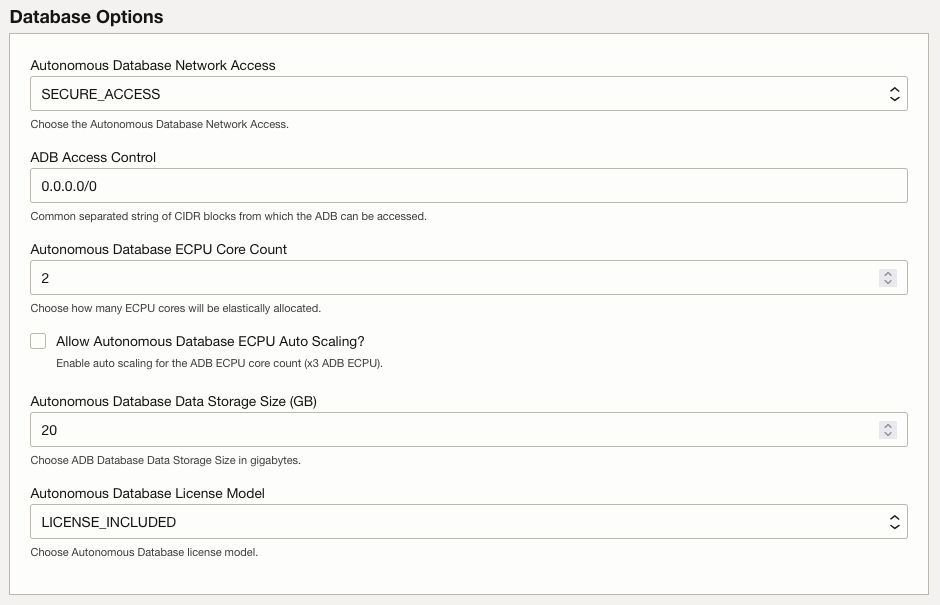
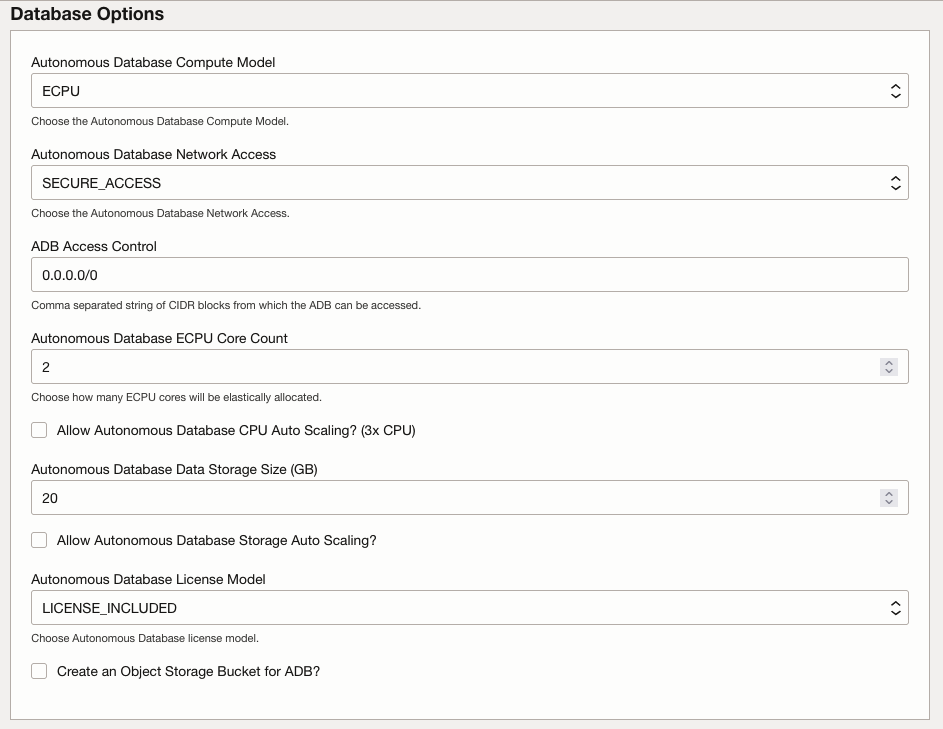
Setup Updates

Changed region(s): [[0.0, 0.0, 0.9872, 0.9521], [0.0, 0.9818, 0.9872, 1.0]]

diff --git a/docs-source/spring/content/setup/_index.md b/docs-source/spring/content/setup/_index.md
@@ -36,6 +36,12 @@ resources:
   - name: oci-stack-apply-logs
     src: "oci-stack-apply-logs.png"
     title: "Create Stack Apply Logs"
+  - name: oci-stack-additional-options
+    src: "oci-stack-additional-options.png"
+    title: "Create Stack Addtional Options - Standard Edition"
+  - name: oci-stack-oke-options
+    src: "oci-stack-oke-options.png"
+    title: "Create Stack OKE Options"
   - name: oci-stack-outputs
     src: "oci-stack-outputs.png"
     title: "Create Stack Outputs"
@@ -60,24 +66,22 @@ resources:
   - name: oci-stack-passwords
     src: "oci-stack-passwords.png"
     title: "Administrator Passwords"
-  - name: oci-stack-control-plane
-    src: "oci-stack-control-plane.png"
-    title: "OKE Control Plane Access"
-  - name: oci-stack-node-pool
-    src: "oci-stack-node-pool.png"
-    title: "Node Pool Information"
   - name: oci-stack-lb-options
     src: "oci-stack-lb-options.png"
     title: "Load Balancer Options"
   - name: oci-stack-vault-options
     src: "oci-stack-vault-options.png"
-    title: "HashiCorp Vault Options"
+    title: "HashiCorp Vault Options - Standard Edition"
   - name: azn-stack-app-info
     src: "azn-stack-app-info.png"
     title: "Access Information"
   - name: oci-stack-app-info
     src: "oci-stack-app-information.png"
     title: "Detailed Access Information"
+  - name: oci-stack-network-options
+    src: "oci-stack-network-options.png"
+    title: "Network Options - Standard Edition"
+
 ---
 
 Oracle Backend for Spring Boot and Microservices is available in the [OCI Marketplace](https://cloudmarketplace.oracle.com/marketplace/en_US/listing/138899911).
@@ -171,9 +175,26 @@ To set up the OCI environment, process these steps:
         - *COMMUNTIY* - for developers for quick start to testing Spring Boot Microservices with an integrated backend. Teams can start with the deployment and scale up as processing demand grows. Community support only.
         - *STANDARD* - focused for pre-prod and production environments with an emphasis on deployment, scaling, and high availability. Oracle support is included with a Oracle Database support agreement. All features for developers are the same so start here if you’re porting an existing Spring Boot application stack and expect to get into production soon.
 
+        | Edition   | Parse Platform | BYO VCN      | BYO Database     | Production Vault | Registry Scanning |
+        |-----------|----------------|--------------|------------------|------------------| ------------------|
+        | Community | ✓              |              |                  |                  |                   |
+        | Standard  | ✓              | ✓            | ✓                | ✓                | ✓                 |
+
       <!-- spellchecker-disable -->
       {{< img name="oci-stack-app-name" size="large" lazy=false >}}
       <!-- spellchecker-enable -->
+
+1. If you check the checkbox *Enable Parse Platform* in the **Parse Server** section a Parse Server will be installed. Fill in the following for the Parse Server:
+
+   - `Application ID` (optional) : Leave blank to auto-generate.
+   - `Server Master Key` (optional) : Leave blank to auto-generate.
+   - `Dashboard Username` : The user name of the user to whom access to the dashboard is granted.
+   - `Dashboard Password` (optional) : The password of the dashboard user (a minimum of 12 characters). Leave blank to auto-generate.
+   - `Enable Parse S3 Storage` : Check the checkbox to enable Parse Server S3 Adaptor and create a S3 compatible Object Storage Bucket.
+
+     <!-- spellchecker-disable -->
+     {{< img name="oci-stack-parse-options" size="large" lazy=false >}}
+     <!-- spellchecker-enable -->
 
 1. If you check the checkbox *Set Administrator Passwords* in the **Administrator Passwords** section you have the option to fill in the following passwords (if not they are autogenerated):
 
@@ -186,38 +207,34 @@ To set up the OCI environment, process these steps:
       {{< img name="oci-stack-passwords" size="large" lazy=false >}}
       <!-- spellchecker-enable -->
 
-1. If you check the checkbox *Enable Parse Platform* in the **Parse Server** section a Parse Server will be installed. Fill in the following for the Parse Server:
+1. (*Standard Edition Only*) If you check the checkbox *Bring Your Own Virtual Cloud Network* in the **Network Options** section you can use an existing Virtual Cloud Network.  This is required to Bring Your Own Database (*Standard Edition Only*).
 
-   - `Application ID` (optional) : Leave blank to auto-generate.
-   - `Server Master Key` (optional) : Leave blank to auto-generate.
-   - `Enable Parse S3 Storage` : Check the checkbox to enable Parse Server S3 Adaptor and create a S3 compatible Object Storage Bucket.
-   - `Dashboard Username` : The user name of the user to whom access to the dashboard is granted.
-   - `Dashboard Password` (optional) : The password of the dashboard user (a minimum of 12 characters). Leave blank to auto-generate.
+    > **NOTE:** For more information on the network requirements and topology of the Oracle Backend for Spring Boot and Microservices, please review the [Network](./infrastructure/network) documentation.
 
-     <!-- spellchecker-disable -->
-     {{< img name="oci-stack-parse-options" size="large" lazy=false >}}
-     <!-- spellchecker-enable -->
+   - `Virtual Cloud Network Compartment` : The compartment of the existing VCN.
+   - `Virtual Cloud Network (VCN)` : The VCN name.
+   - `Private Subnet Compartment` : The compartment of the existing Private Subnet in the VCN.
+   - `Private Subnet` : The Private Subnet name.
+   - `Public Subnet Compartment` : The compartment of the existing Public Subnet in the VCN.
+   - `Public Subnet` : The Public Subnet name.
 
-1. If you check the checkbox *Public Control Plane* in the **Public Control Plane Options**, you are enabling access from the `public` to the Control Plane:
-  
-   - `Public Control Plane` : This option allows access to the OKE Control Plane from the internet (public IP). If not selected, access can only be from a private virtual cloud network (VCN).
-   - `Control Plane Access Control` : Enter the CIDR block you want to give access to the Control Plane. Default (and not recommended) is `0.0.0.0/0`.
+      <!-- spellchecker-disable -->
+      {{< img name="oci-stack-network-options" size="large" lazy=false >}}
+      <!-- spellchecker-enable -->
 
-   > **NOTE:** Oracle recommends that you set `Control Plane Access Control` to be as restrictive as possible
+1. In the **Kubernetes Cluster Options** section, fill in the following for the OKE Cluster Options:
 
-     <!-- spellchecker-disable -->
-     {{< img name="oci-stack-control-plane" size="large" lazy=false >}}
-     <!-- spellchecker-enable -->
-
-1. In the **Node Pool** section, fill in the following for the OKE Node Pools:
-
+   - `Public API Endpoint?` : This option allows access to the OKE Control Plane API Endpoint from the internet (public IP). If not selected, access can only be from a private virtual cloud network (VCN).
+   - `API Endpoint Access Control` : Enter the CIDR block you want to give access to the Control Plane API. Default (and not recommended) is `0.0.0.0/0`.
    - `Node Pool Workers` : The number of Kubernetes worker nodes (virtual machines) attached to the OKE cluster.
    - `Node Pool Worker Shape` : The shape of the node pool workers.
    - `Node Workers OCPU` : The initial number of Oracle Compute Units (OCPUs) for the node pool workers.
 
-      <!-- spellchecker-disable -->
-      {{< img name="oci-stack-node-pool" size="large" lazy=false >}}
-      <!-- spellchecker-enable -->
+   > **NOTE:** Oracle recommends that you set `API Endpoint Access Control` to be as restrictive as possible
+
+     <!-- spellchecker-disable -->
+     {{< img name="oci-stack-oke-options" size="large" lazy=false >}}
+     <!-- spellchecker-enable -->
 
 1. In the **Load Balancers Options** section, fill in the following for the Load Balancers options:
 
@@ -234,7 +251,27 @@ To set up the OCI environment, process these steps:
       {{< img name="oci-stack-lb-options" size="large" lazy=false >}}
       <!-- spellchecker-enable -->
 
-1. If you check the checkbox *Enable Vault in Production Mode* in the section **Vault Options** you will be installing HashiCorp in **Production** mode otherwise the HashiCorp Vault be installed in **Development** mode.
+1. In the **Database Options** section, you can modify the following Database options.
+
+   - `Autonomous Database Compute Model` : Choose either ECPU (default) or OCPU compute model for the ADB.
+   - `Autonomous Database Network Access` : Choose the Autonomous Database network access. Choose between *SECURE_ACCESS* and *PRIVATE_ENDPOINT_ACCESS*. **NOTE:** This option currently cannot be changed later.
+      - *SECURE_ACCESS* - Accessible from outside the Kubernetes Cluster.  Requires mTLS and can be restricted by IP or CIDR addresses.
+      - *PRIVATE_ENDPOINT_ACCESS* - Accessible only from inside the Kubernetes Cluster or via a Bastion service.  Requires mTLS.
+   - `ADB Access Control` : Comma separated list of CIDR blocks from which the ADB can be accessed. This only applies if *SECURE_ACCESS* was chosen. Default (and not recommended) is `0.0.0.0/0`.
+   - `Autonomous Database CPU Core Count` : Choose how many CPU cores will be elastically allocated.
+   - `Allow Autonomous Database CPU Auto Scaling` : Enable auto scaling for the ADB CPU core count (x3 ADB CPU).
+   - `Autonomous Database Data Storage Size` : Choose ADB Database Data Storage Size in gigabytes (ECPU) or terabytes (OCPU).
+   - `Allow Autonomous Database Storage Auto Scaling` : Allow the ADB storage to automatically scale.
+   - `Autonomous Database License Model` : The Autonomous Database license model.
+   - `Create an Object Storage Bucket for ADB` : Create a Object Storage bucket, with the appropriate access policies, for the ADB.
+
+    > **NOTE:** Oracle recommends that you restrict by IP or CIDR addresses to be as restrictive as possible.
+
+      <!-- spellchecker-disable -->
+      {{< img name="oci-stack-db-options" size="large" lazy=false >}}
+      <!-- spellchecker-enable -->
+
+1. (*Standard Edition Only*) If you check the checkbox *Enable Vault in Production Mode* in the section **Vault Options** you will be installing HashiCorp in **Production** mode otherwise the HashiCorp Vault be installed in **Development** mode.
 
     Fill in the following Vault options. You have the option of creating a new OCI Vault or using an existing OCI Vault. The OCI Vault is only used in **Production** mode to auto-unseal the HashiCorp Vault (see documentation ...) Fill in the following information if you want to use an existing OCI Vault:
 
@@ -250,21 +287,10 @@ To set up the OCI environment, process these steps:
    **Never** run a **Development** mode HashiCorp Vault Server in a production environment. It is insecure and will lose data on every restart (since it stores data in-memory). It is only intended for development or experimentation.
    {{< /hint >}}
 
-1. In the **Database Options** section, you can modify the following Database options.
-
-   - `Autonomous Database Network Access` : Choose the Autonomous Database network access. Choose between *SECURE_ACCESS* and *PRIVATE_ENDPOINT_ACCESS*. **NOTE:** This option currently cannot be changed later.
-      - *SECURE_ACCESS* - Accessible from outside the Kubernetes Cluster.  Requires mTLS and can be restricted by IP or CIDR addresses.
-      - *PRIVATE_ENDPOINT* - Accessible only from inside the Kubernetes Cluster or via a Bastion service.  Requires mTLS.
-   - `ADB Access Control` : Comma separated list of CIDR blocks from which the ADB can be accessed. This only applies if *SECURE_ACCESS* was chosen. Default (and not recommended) is `0.0.0.0/0`.
-   - `Autonomous Database ECPU Core Count` : Choose how many ECPU cores will be elastically allocated.
-   - `Allow Autonomous Database OCPU Auto Scaling` : Enable auto scaling for the ADB ECPU core count (x3 ADB ECPU).
-   - `Autonomous Database Data Storage Size` : Choose ADB Database Data Storage Size in gigabytes.
-   - `Autonomous Database License Model` : The Autonomous Database license model.
-
-    > **NOTE:** Oracle recommends that you restrict by IP or CIDR addresses to be as restrictive as possible.
+1. (*Standard Edition Only*) If you check the checkbox *Enable Container Registry Vulnerability Scanning* in the section **Additional Options** you will enable the automatic Vaulnerability Scanning on images stored in the Oracle Container Registry.
 
       <!-- spellchecker-disable -->
-      {{< img name="oci-stack-db-options" size="large" lazy=false >}}
+      {{< img name="oci-stack-additional-options" size="large" lazy=false >}}
       <!-- spellchecker-enable -->
 
 1. Now you can review the stack configuration and save the changes. Oracle recommends that you do not check the **Run apply** option. This gives you the opportunity to run the "plan" first and check for issues. Click **Create**
@@ -346,7 +372,7 @@ To set up the local machine, process these steps:
 
 1. Install the Oracle Backend for Spring Boot and Microservices command-line.
 
-   The Oracle Backend for Spring Boot and Microservices command-line interface, `oractl`, is available for Linux and Mac systems. Download the binary that you want from the [Releases](https://github.com/oracle/microservices-datadriven/releases/tag/OBAAS-1.0.0) page and add it to your PATH environment variable. You can rename the binary to remove the suffix.
+   The Oracle Backend for Spring Boot and Microservices command-line interface, `oractl`, is available for Linux and Mac systems. Download the binary that you want from the [Releases](https://github.com/oracle/microservices-datadriven/releases/tag/OBAAS-1.1.1) page and add it to your PATH environment variable. You can rename the binary to remove the suffix.
 
    If your environment is a Linux or Mac machine, run `chmod +x` on the downloaded binary. Also, if your environment is a Mac, run the following command. Otherwise, you get a security warning and the CLI does not work:
 
